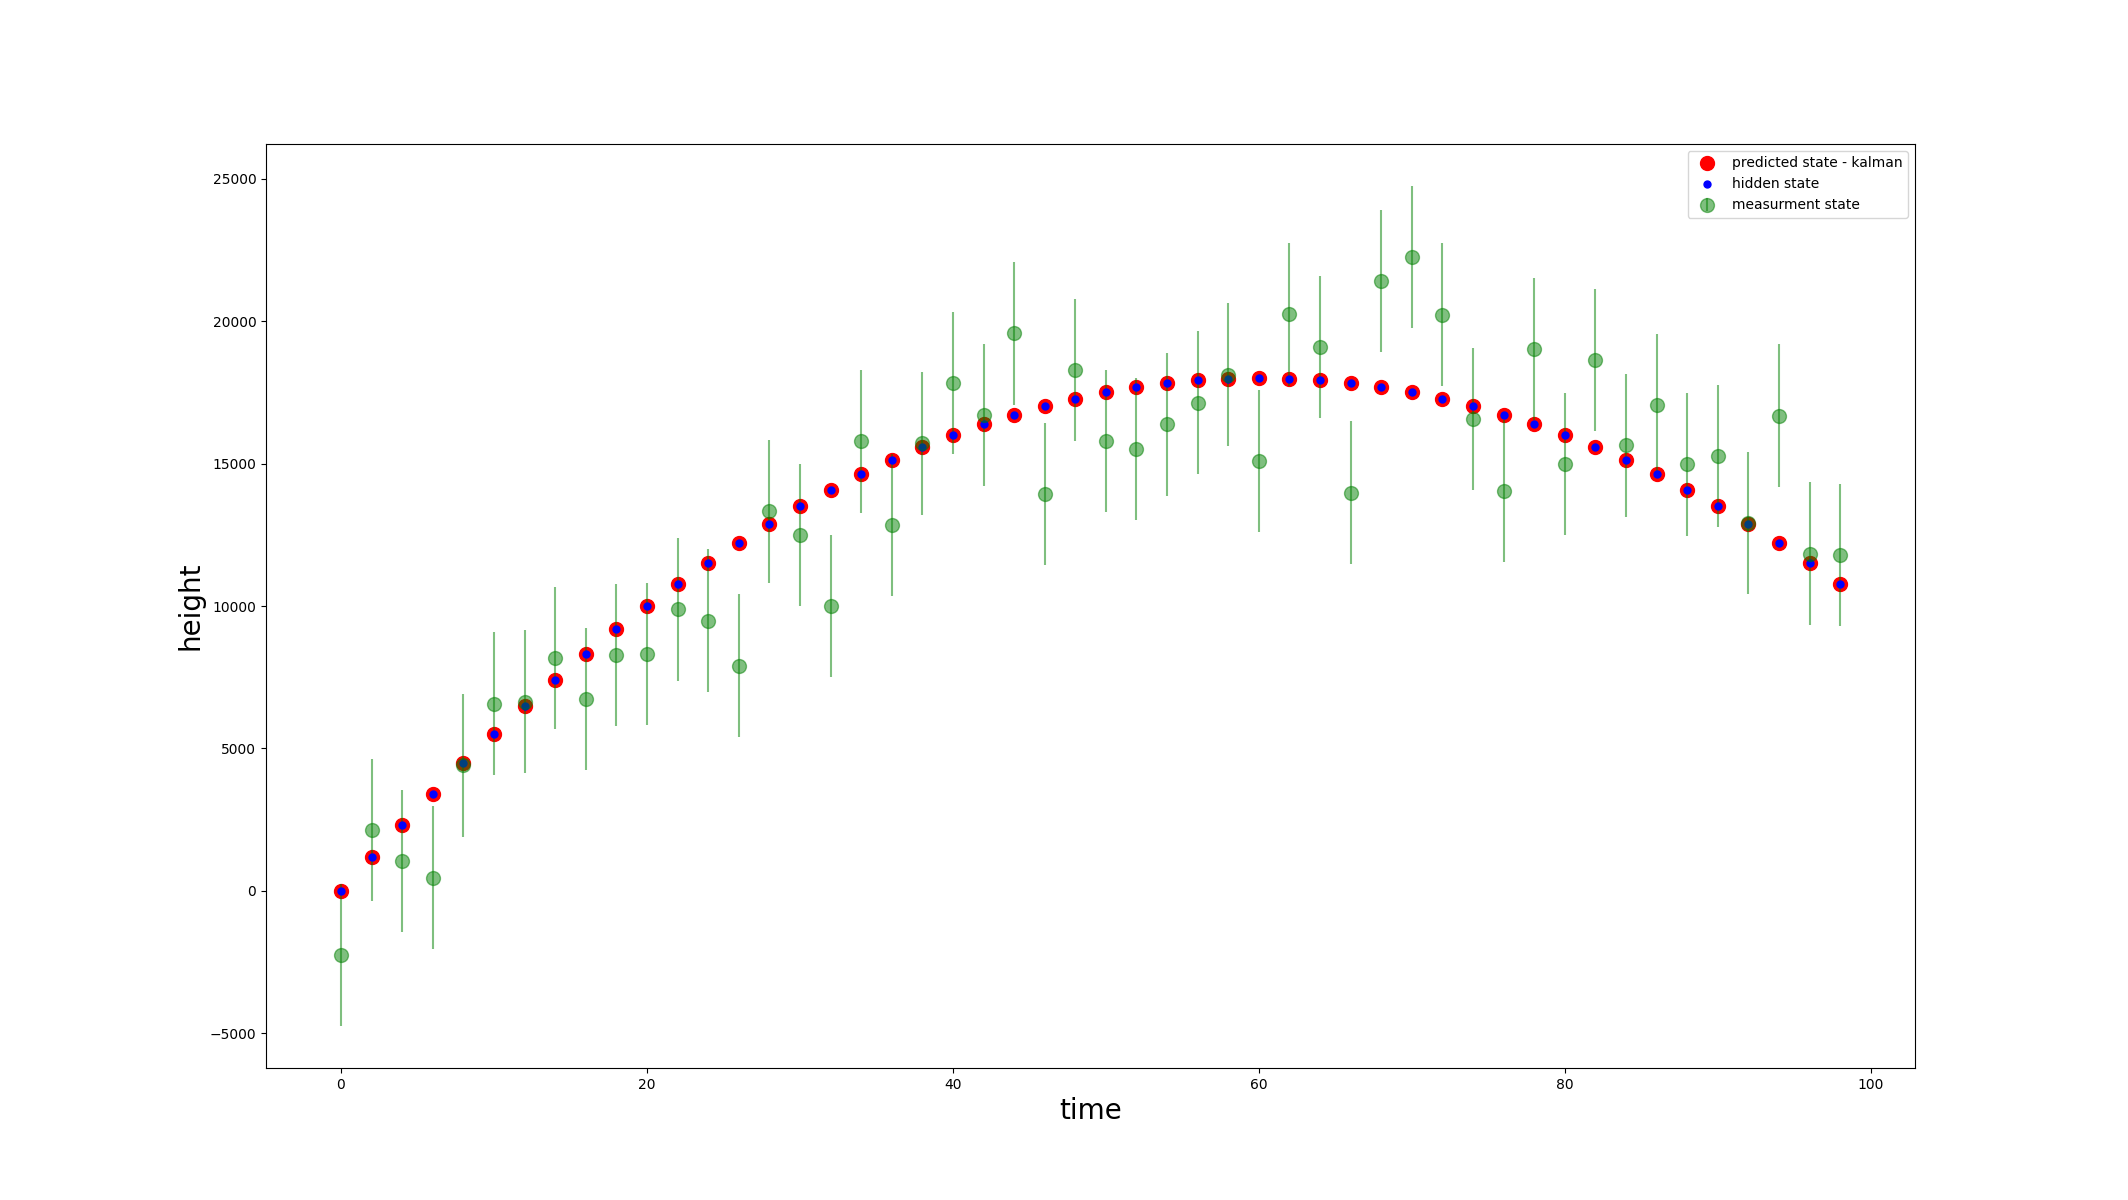
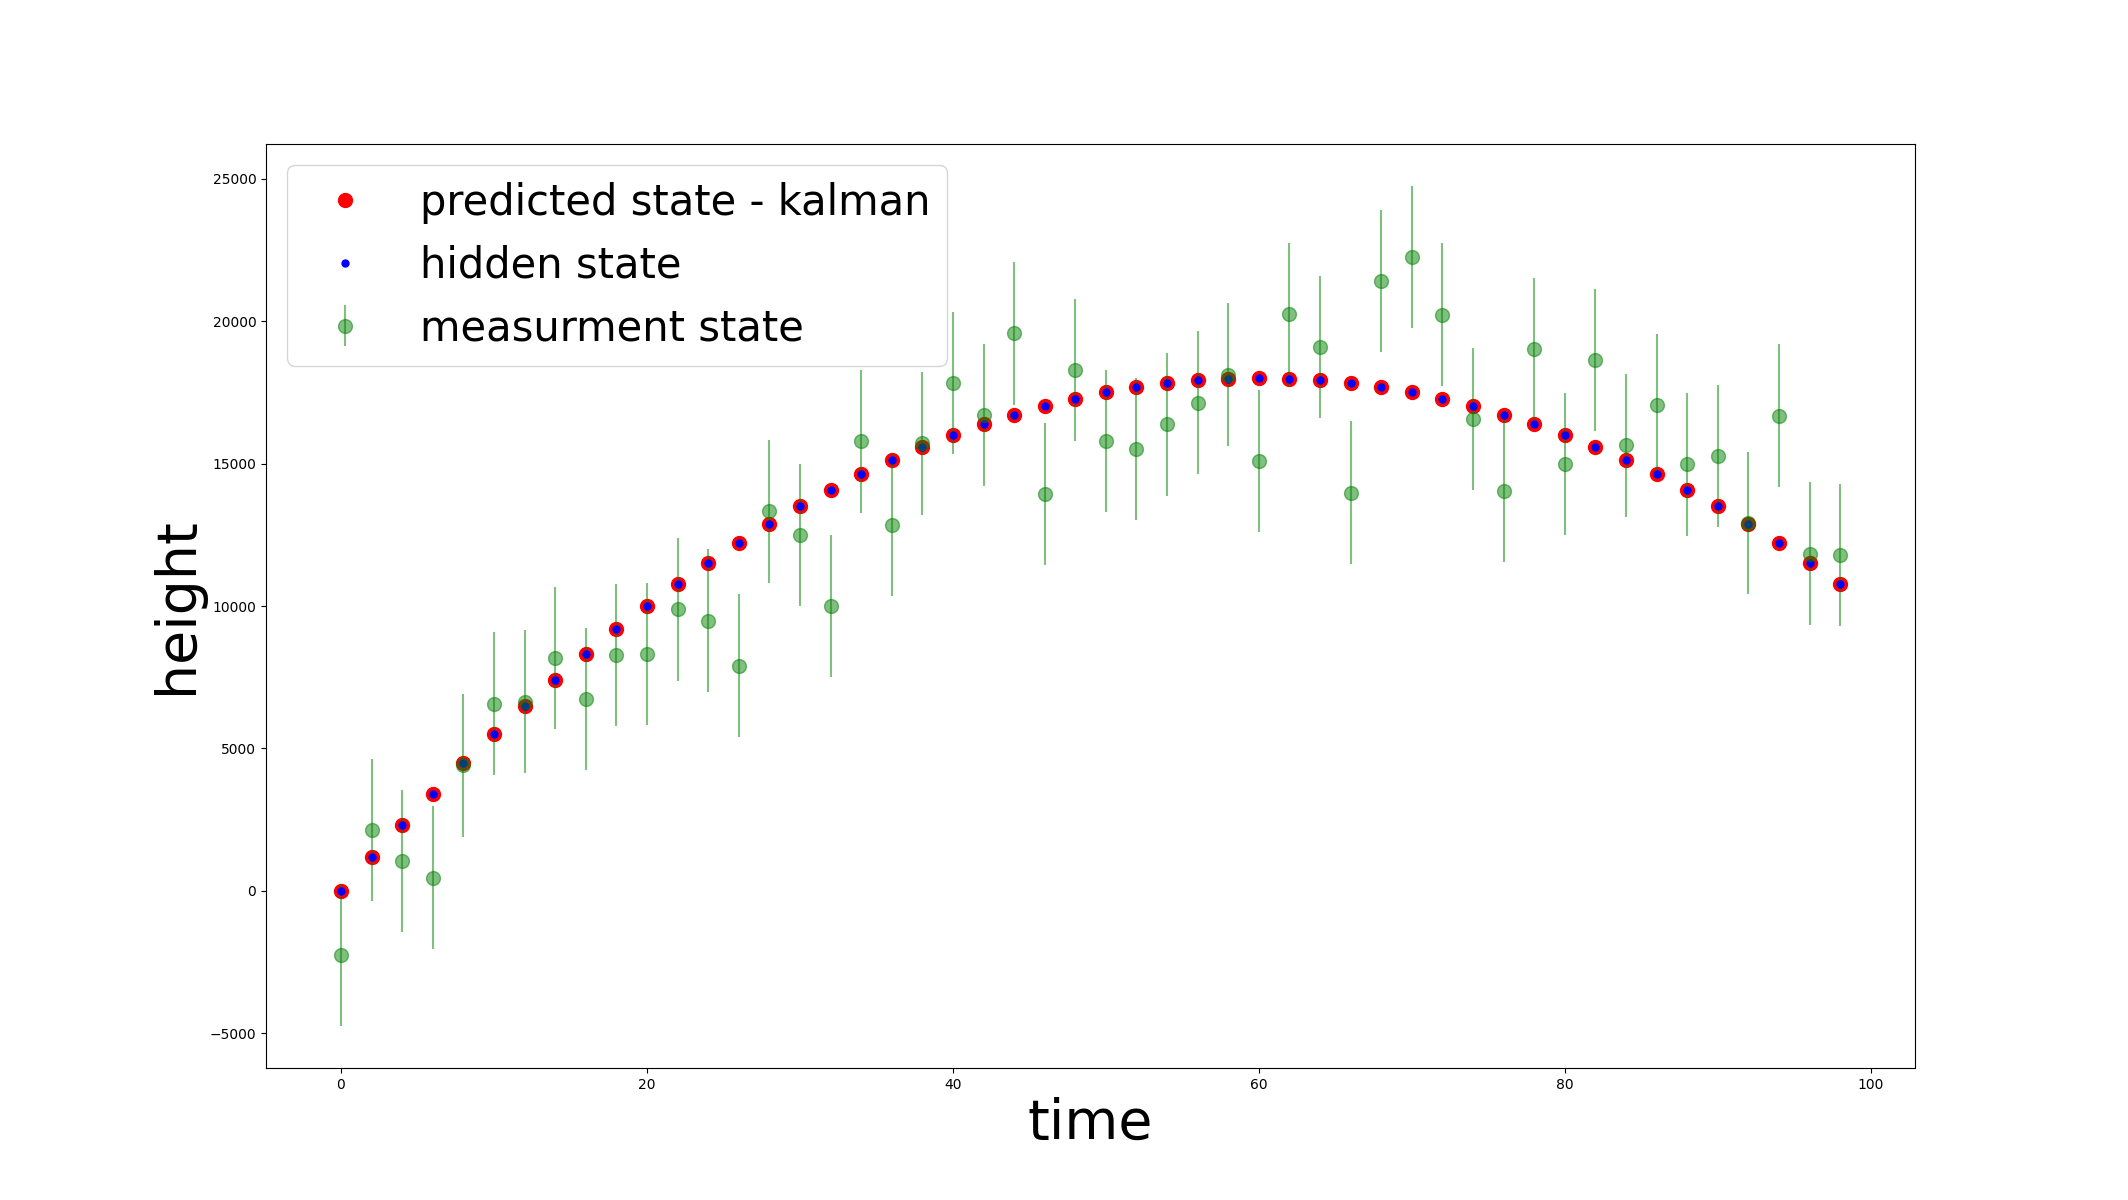
.png changed

diff --git a/kalman_ballistic_trajectory.py b/kalman_ballistic_trajectory.py
@@ -118,9 +118,9 @@ def start():
             ,color = 'g', fmt = 'o', markersize = 10, label = "measurment state", alpha = 0.5)
     pylab.plot(parameters.time_space,hidden_value_y,'bo', markersize = 5, label = "hidden state")
 
-    pylab.xlabel("time", fontsize = 20)
-    pylab.ylabel("height", fontsize = 20)
-    pylab.legend()
+    pylab.xlabel("time", fontsize = 40)
+    pylab.ylabel("height", fontsize = 40)
+    pylab.legend(fontsize = 30)
     pylab.show()
 
 
